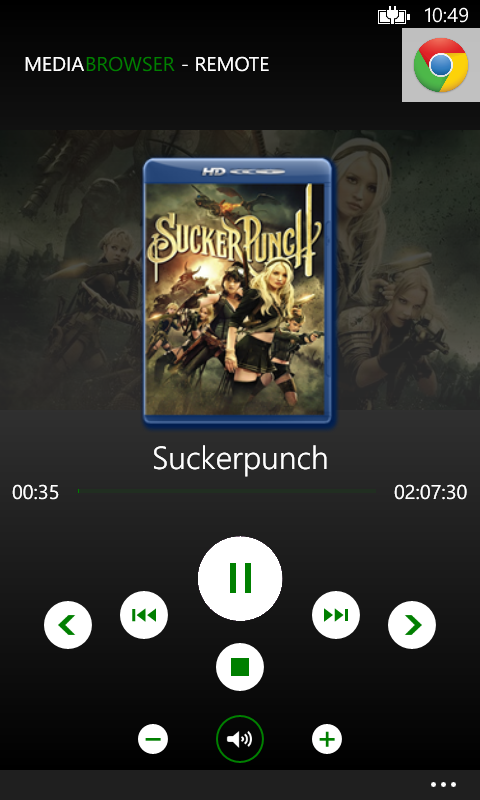
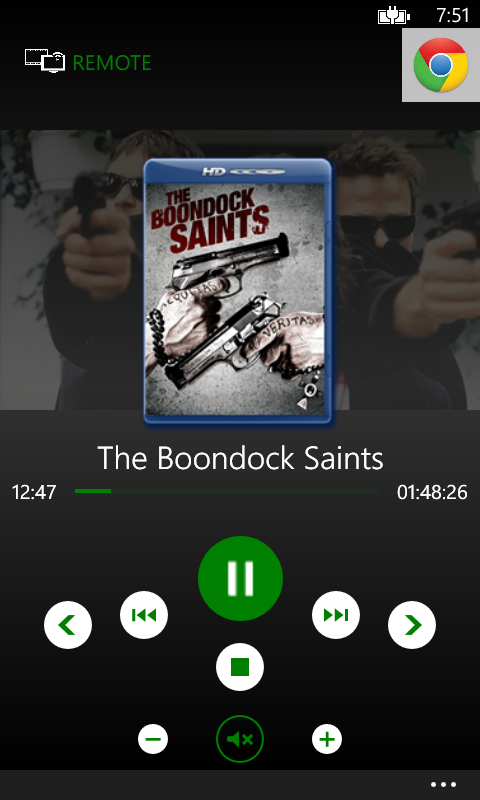
Updated/Added screenshots

diff --git a/MediaBrowser.WindowsPhone7/Views/Remote/RemoteView.xaml b/MediaBrowser.WindowsPhone7/Views/Remote/RemoteView.xaml
@@ -157,10 +157,7 @@
                         Grid.Row="0"
                         Orientation="Horizontal"
                         Margin="12,17,0,28">
-                <mb:MediaBrowserLogo />
-                <TextBlock Text="- REMOTE"
-                           Style="{StaticResource PhoneTextNormalStyle}"
-                           Margin="6,0" />
+                <mb:MediaBrowserLogo AltText="REMOTE" />
             </StackPanel>
 
             <toolkit:ListPicker ItemsSource="{Binding Clients}"
@@ -177,8 +174,6 @@
                 <toolkit:ListPicker.ItemTemplate>
                     <DataTemplate>
                         <controls:SuperImage Source="{Binding Converter={StaticResource ClientTypeIconConverter}}"
-                                             PlaceholderImageSource="/Images/Logo.png"
-                                             PlaceholderImageStretch="UniformToFill"
                                              Height="62"
                                              Width="62"
                                              VerticalAlignment="Top"

diff --git a/MediaBrowser.WindowsPhone8/Views/Remote/RemoteView.xaml b/MediaBrowser.WindowsPhone8/Views/Remote/RemoteView.xaml
@@ -157,10 +157,7 @@
                         Grid.Row="0"
                         Orientation="Horizontal"
                         Margin="12,17,0,28">
-                <mb:MediaBrowserLogo />
-                <TextBlock Text="- REMOTE"
-                           Style="{StaticResource PhoneTextNormalStyle}"
-                           Margin="6,0" />
+                <mb:MediaBrowserLogo AltText="REMOTE" />
             </StackPanel>
 
             <toolkit:ListPicker ItemsSource="{Binding Clients}"

diff --git a/MediaBrowser.WindowsPhone7/App.xaml.cs b/MediaBrowser.WindowsPhone7/App.xaml.cs
@@ -15,6 +15,7 @@ using Microsoft.Phone.Shell;
 using MediaBrowser.Model;
 
 using ScottIsAFool.WindowsPhone.Logging;
+using Telerik.Windows.Controls;
 
 namespace MediaBrowser.WindowsPhone
 {
@@ -110,6 +111,7 @@ namespace MediaBrowser.WindowsPhone
         private void ApplicationLaunching(object sender, LaunchingEventArgs e)
         {
             AuthenticationService.Current.Start(SimpleIoc.Default.GetInstance<IExtendedApiClient>(), new MBLogger(typeof(AuthenticationService)));
+            ApplicationUsageHelper.Init(ApplicationManifest.Current.App.Version);
         }
 
         // Code to execute when the application is activated (brought to foreground)
@@ -120,6 +122,8 @@ namespace MediaBrowser.WindowsPhone
             {
                 AuthenticationService.Current.Start(SimpleIoc.Default.GetInstance<IExtendedApiClient>(), new MBLogger(typeof(AuthenticationService)));
             }
+
+            ApplicationUsageHelper.OnApplicationActivated();
         }
 
         // Code to execute when the application is deactivated (sent to background)
